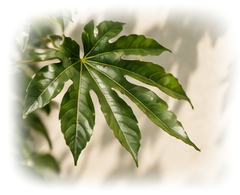
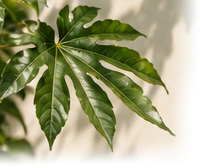
Rebuild the home page to the mockup composition
Each section now carries one photograph running off the right-hand
edge, with the words to the left, rather than a picture placed inside
the section. The bud image is mirrored so its pale background falls on
the side that dissolves and the bud sits near the edge it runs off —
which is the arrangement in the reference.

Foliage is cut back. The bud is cropped away from its densest leaves,
the open magnolia is a tighter crop with fewer leaves around it, and
the fatsia is now a small corner detail rather than a large leaf. Every
small fragment elsewhere is gone: one motif per inner page, three on
the home page, and the middle band is held at its two edges with
nothing in the centre.

The closing section takes its words to the left and the flower to the
right, so the two stop competing.

The two page tones are warmed slightly — paper to #eef1e5 and cream to
#faf9f1 — because the photographs' own backgrounds average a warm cream
around (218,207,181) to (241,230,211) against a page that was cooler
and greener. The join is close to invisible now.

Feathering is unchanged and still narrow, so the leaves stay sharp.

diff --git a/src/styles/global.css b/src/styles/global.css
@@ -20,8 +20,11 @@
      The page itself is a pale green. Cards and bands sit either side of it:
      cream lifts forward, deeper sage recedes. That's what stops a page of
      plain text feeling flat. */
-  --color-paper: #edf2e7;     /* the page background — pale green */
-  --color-cream: #f9fbf6;     /* cards, lifted above the page */
+  --color-paper: #eef1e5;     /* the page background — pale green, warmed
+                                 slightly so the photographs, whose own
+                                 backgrounds are a warm cream, meet it almost
+                                 invisibly */
+  --color-cream: #faf9f1;     /* cards and bands, lifted above the page */
   --color-sage: #dbe6d1;      /* full-width bands, set back from the page */
   --color-sage-deep: #c6d6ba; /* borders and hairlines on sage */
   --color-rule: #d4dfc9;      /* hairlines on the page background */
